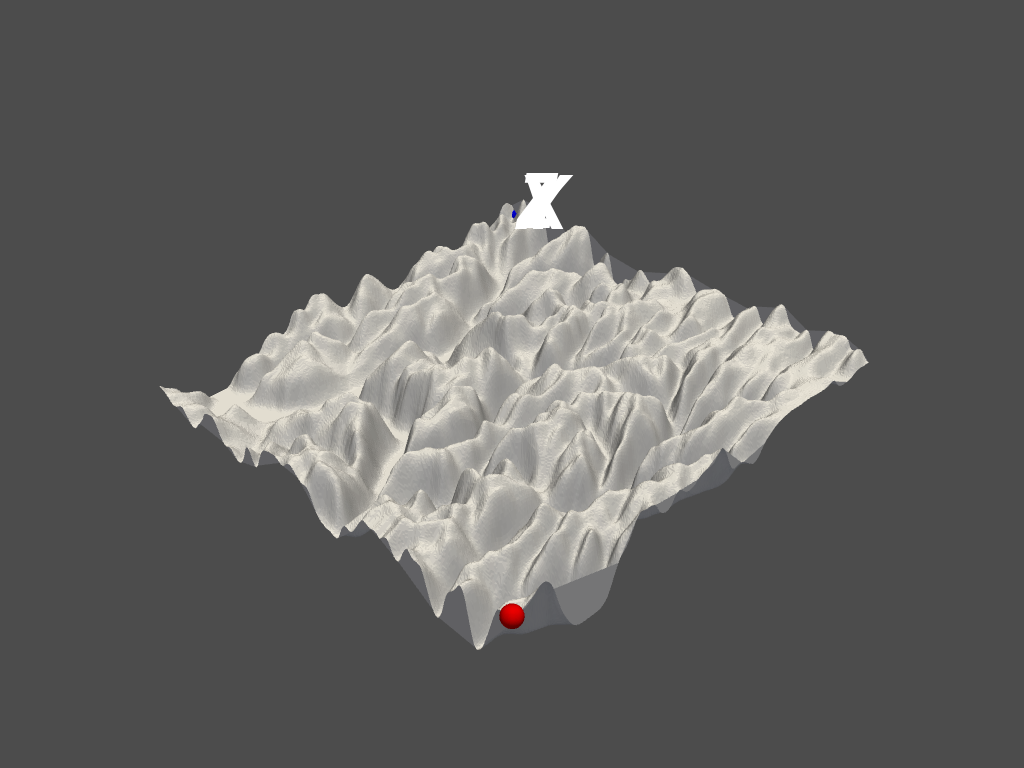
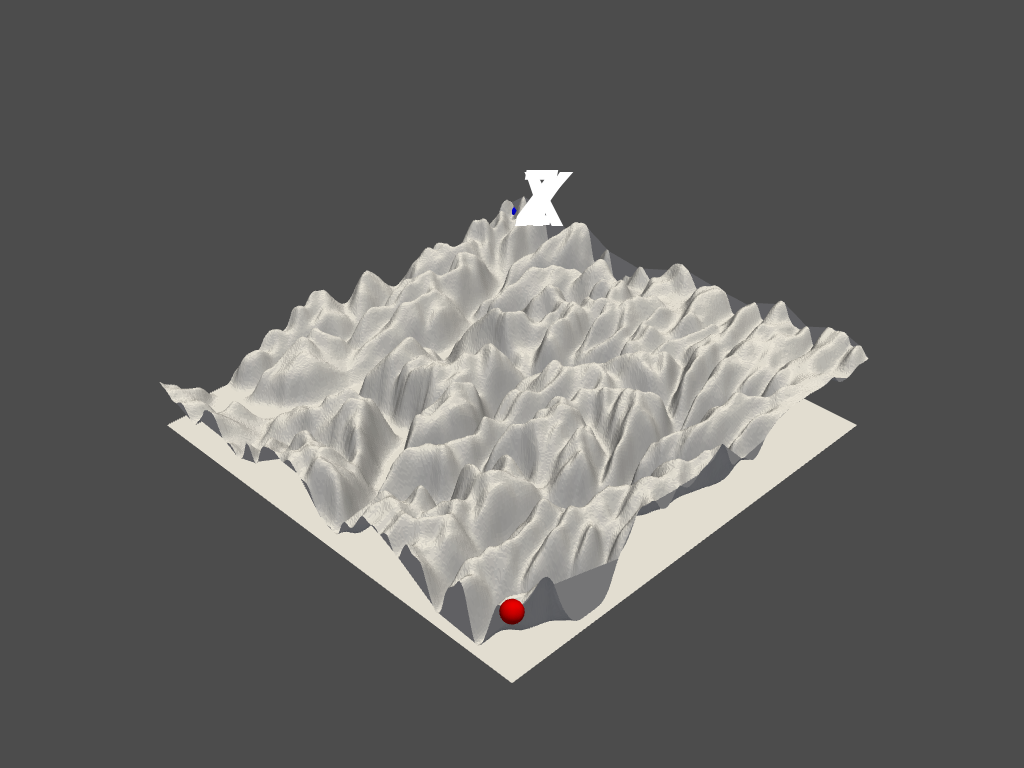
Added bottom layer to PyVista visualization.

Changed region(s): [[0.1562, 0.2188, 0.8438, 0.9062]]

diff --git a/wms/get_wms.py b/wms/get_wms.py
@@ -151,6 +151,7 @@ class GetWMS:
 
         # Add xyz coordinates into a single array (so that height_data_3d represents the (x, y, z) value of all the data points
         height_data_3d = np.c_[height_data_x.reshape(-1), height_data_y.reshape(-1), height_data_z.reshape(-1)]
+        bottom_surf_pts = np.c_[height_data_x.reshape(-1), height_data_y.reshape(-1), height_data_z.reshape(-1)*0-10]
 
         self.height_data = height_data_z
 
@@ -162,11 +163,14 @@ class GetWMS:
         if(self.visualize):
             print("[INFO]: Calculated point cloud, starting Delaunay triangulation...")
             # Generate PyVista point cloud
-            cloud = pv.PolyData(height_data_3d)
+            top_surf = pv.PolyData(height_data_3d)
+            bottom_surf = pv.PolyData(bottom_surf_pts)
+
            # cloud.plot(point_size=1)
 
             # Apply Delaunay triangulation to connect points into surfaces
-            surf = cloud.delaunay_2d()
+            surf = top_surf.delaunay_2d()
+            surf2 = bottom_surf.delaunay_2d()
 
             print("[INFO]: Showing result...")
 
@@ -175,6 +179,7 @@ class GetWMS:
             # Add the mesh to the plotter
             #plotter.add_points(height_data_3d, point_size=10, color='orange')
             plotter.add_mesh(surf, color='white')
+            plotter.add_mesh(surf2, color='white')
             _ = plotter.add_mesh(pv.Sphere(center=(2, 0, 0)), color='r')
             _ = plotter.add_mesh(pv.Sphere(center=(0, 2, 0)), color='g')
             _ = plotter.add_mesh(pv.Sphere(center=(0, 0, 2)), color='b')
